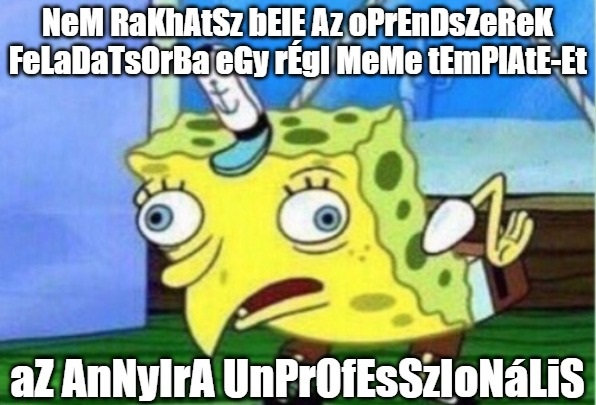
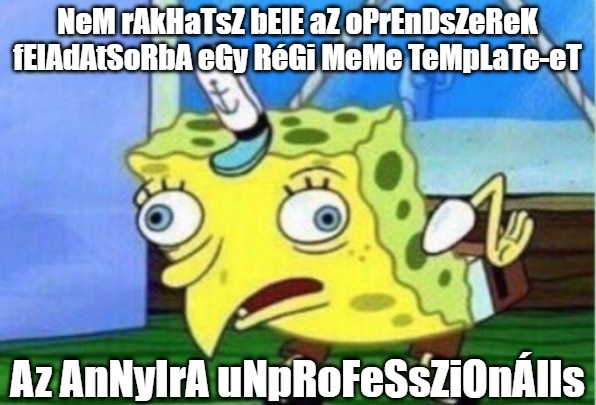
Updated AWK practice exercises

Changed region(s): [[0.0, 0.0, 0.9966, 0.2074], [0.0, 0.8593, 0.9966, 1.0]]

diff --git a/teaching/os/feladatsorok/awk/index.html b/teaching/os/feladatsorok/awk/index.html
@@ -4,7 +4,7 @@
       <meta name="viewport" content="width=device-width, initial-scale=1.0">
       <link rel="icon" href="../../../../assets/img/icon.png">
       <link rel="stylesheet" href="../../../../assets/css/markdown-shared.css">
-      
+  
       
       
       
@@ -295,7 +295,7 @@ macska_jancsi.mp4
 <p>&#xCD;rj AWK szkriptet <code>3.awk</code> n&#xE9;ven, amely &#xF6;sszeadja a param&#xE9;terben kapott f&#xE1;jlb&#xF3;l azoknak a j&#xE1;t&#xE9;kosoknak a pontsz&#xE1;m&#xE1;t, akiknek a neve a k&#xF6;vetkez&#x151;k&#xE9;ppen &#xE9;p&#xFC;l fel:</p>
 <ul>
 <li>A n&#xE9;v elej&#xE9;n opcion&#xE1;lisan szerepel az <code>[admin]</code> sz&#xF6;veg (teh&#xE1;t vagy szerepel, vagy nem)</li>
-<li>Ezut&#xE1;n legal&#xE1;bb 1 darab bet&#x171;, sz&#xE1;m, sz&#xF3;k&#xF6;z, alulvon&#xE1;s vagy pont karakter k&#xF6;vetkezik</li>
+<li>Ezut&#xE1;n legal&#xE1;bb 1 darab bet&#x171;, sz&#xE1;mjegy, sz&#xF3;k&#xF6;z, alulvon&#xE1;s vagy pont karakter k&#xF6;vetkezik</li>
 <li>Ezut&#xE1;n legal&#xE1;bb 2 darab sz&#xE1;mjegy szerepel, ami ut&#xE1;n a j&#xE1;t&#xE9;kosn&#xE9;v v&#xE9;get &#xE9;r.</li>
 </ul>
 <p>A szkript kimenete a fenti szempontoknak megfelel&#x151; n&#xE9;vvel rendelkez&#x151; j&#xE1;t&#xE9;kosok &#xF6;sszpontsz&#xE1;ma.</p>
@@ -329,12 +329,12 @@ SEMMI
 <p>&#xCD;rj AWK szkriptet <code>5.awk</code> n&#xE9;ven, amely egy t&#xF6;bb soros sz&#xF6;veges f&#xE1;jlt kap param&#xE9;ter&#xFC;l, amelynek minden sora sz&#xF3;k&#xF6;zzel elv&#xE1;lasztott szavakat tartalmaz! A szkript &#xED;rja ki a f&#xE1;jl tartalm&#xE1;t &#xFA;gy, hogy a kis- &#xE9;s nagybet&#x171;k felv&#xE1;ltva k&#xF6;vess&#xE9;k egym&#xE1;st (mint ahogy az a fenti k&#xE9;pen l&#xE1;that&#xF3;)!</p>
 <p><span class="example">P&#xE9;lda a szkript m&#x171;k&#xF6;d&#xE9;s&#xE9;re:</span></p>
 <pre data-role="codeBlock" data-info="html" class="language-html">&gt; ./5.awk inputs/05_rick_roll.txt
-NeVeR GoNnA GiVe yOu uP
-NeVeR GoNnA LeT YoU DoWn
-NeVeR GoNnA RuN ArOuNd aNd dEsErT YoU
-NeVeR GoNnA MaKe yOu cRy
-NeVeR GoNnA SaY GoOdByE
-NeVeR GoNnA TeLl a lIe aNd hUrT YoU
+NeVeR gOnNa GiVe YoU uP
+NeVeR gOnNa LeT yOu DoWn
+NeVeR gOnNa RuN aRoUnD aNd DeSeRt YoU
+NeVeR gOnNa MaKe YoU cRy
+NeVeR gOnNa SaY gOoDbYe
+NeVeR gOnNa TeLl A lIe AnD hUrT yOu
 </pre><h3 class="mume-header" id="6-%C3%A1tlagok-5-pont">6. &#xC1;tlagok (5 pont)</h3>
 
 <p>A <code>06_points.csv</code> &#xE1;llom&#xE1;ny az Oper&#xE1;ci&#xF3;s rendszerek gyakorlaton meg&#xED;ratott 1. ZH eredm&#xE9;nyeit tartalmazza. Minden sorban egy-egy csoport hallgat&#xF3;i &#xE1;ltal el&#xE9;rt pontsz&#xE1;mok tal&#xE1;lhat&#xF3;k, pontosvessz&#x151;vel elv&#xE1;lasztva.</p>

diff --git a/teaching/os/feladatsorok/awk/raw.md b/teaching/os/feladatsorok/awk/raw.md
@@ -52,7 +52,7 @@ A `03_scores.csv` állomány egy online játék aktuális állását tartalmazza
 Írj AWK szkriptet `3.awk` néven, amely összeadja a paraméterben kapott fájlból azoknak a játékosoknak a pontszámát, akiknek a neve a következőképpen épül fel:
 
 * A név elején opcionálisan szerepel az `[admin]` szöveg (tehát vagy szerepel, vagy nem)
-* Ezután legalább 1 darab betű, szám, szóköz, alulvonás vagy pont karakter következik
+* Ezután legalább 1 darab betű, számjegy, szóköz, alulvonás vagy pont karakter következik
 * Ezután legalább 2 darab számjegy szerepel, ami után a játékosnév véget ér.
 
 A szkript kimenete a fenti szempontoknak megfelelő névvel rendelkező játékosok összpontszáma.
@@ -102,12 +102,12 @@ Ki ne emlékezne az alábbi meme template-re és annak jellegzetes szövegformá
 
 ```html
 > ./5.awk inputs/05_rick_roll.txt
-NeVeR GoNnA GiVe yOu uP
-NeVeR GoNnA LeT YoU DoWn
-NeVeR GoNnA RuN ArOuNd aNd dEsErT YoU
-NeVeR GoNnA MaKe yOu cRy
-NeVeR GoNnA SaY GoOdByE
-NeVeR GoNnA TeLl a lIe aNd hUrT YoU
+NeVeR gOnNa GiVe YoU uP
+NeVeR gOnNa LeT yOu DoWn
+NeVeR gOnNa RuN aRoUnD aNd DeSeRt YoU
+NeVeR gOnNa MaKe YoU cRy
+NeVeR gOnNa SaY gOoDbYe
+NeVeR gOnNa TeLl A lIe AnD hUrT yOu
 ```
 
 
